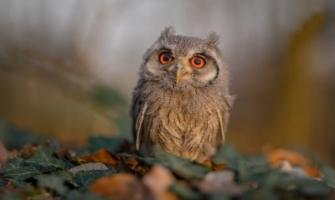
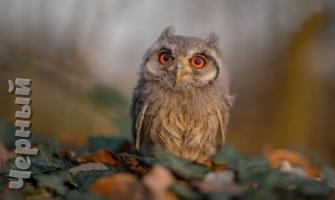
refact

Changed region(s): [[0.0, 0.39, 0.1194, 0.96]]

diff --git a/php/algorithms/transformingSteps/PredominantColor.php b/php/algorithms/transformingSteps/PredominantColor.php
@@ -81,10 +81,9 @@ class PredominantColor
     //14) Неопределенные цвета
     static $undefined=array(45,46,81,82,88,118,189,477,513,621,518,521,53,119,82,83);
 
-    public function Get_Img($url)
+    public static function Get_Img($url)
     {
-        MessageSystem::sendMessage(false, "цвет", $url);
-        var_dump($url);
+        
         $arr_color=array();
         // Файл для определения основного цвета
         $im = ImageCreateFromJPEG($url);
@@ -103,9 +102,9 @@ class PredominantColor
                 $avg_B = $rgb & 0xFF;
 
 
-                $HSV = $this->RGB_HSV($avg_R, $avg_G, $avg_B);
+                $HSV = PredominantColor::RGB_HSV($avg_R, $avg_G, $avg_B);
 
-                $number = $this->number_intable($HSV["hue"], $HSV["saturation"], $HSV["value"]);
+                $number = PredominantColor::number_intable($HSV["hue"], $HSV["saturation"], $HSV["value"]);
 
                 if (isset($arr_color[$number])) {
                     $arr_color[$number] = $arr_color[$number] + 1;
@@ -118,10 +117,10 @@ class PredominantColor
         //var_dump($arr_color);
         ImageDestroy($im);
 
-        $vr=$this->counting_color($arr_color);
+        $vr = PredominantColor::counting_color($arr_color);
+        
 
-
-        return (string)$this->calculation_dominant_color($vr);
+        return PredominantColor::calculation_dominant_color($vr);
 
     }
     // Перевести RGB в HSV
@@ -375,9 +374,10 @@ class PredominantColor
             }
         }
         
-        return MessageSystem::sendMessage(true, "цвет", $dom_color);
+         return MessageSystem::sendMessage(true, "цвет", $dom_color);
+        // return $dom_color;
     }
-
+    
 }
 
 //$b = new Predominant_Color();

diff --git a/php/controller/CoreController.php b/php/controller/CoreController.php
@@ -23,17 +23,30 @@ class CoreController
        
 
 
-        foreach ($result['data'] as &$value) {
+        // foreach ($result['data'] as &$value) {
 
-            $bmw ->usageGetImage($value, $saitUrl, $width, $higth)
-                 ->usageSaveFile()
-                 ->usageImageResize()
-                 ->usageReadSaveHashFile()
-                 ->usagePredominantColor()
-                 ->usageWatermark();
-                //  ->usageReadSaveHashFile();
+        //     $bmw ->usageGetImage($value, $saitUrl, $width, $higth)
+        //          ->usageSaveFile()
+        //          ->usageImageResize()
+        //          ->usageReadSaveHashFile()
+        //          ->usagePredominantColor()
+        //          ->usageWatermark();
+        //         //  ->usageReadSaveHashFile();
               
-        }
+        // }
+
+    $value = 'https://zastavok.net/ts/animals/165273601317.jpg';
+    $bmw ->usageGetImage($value, $saitUrl, $width, $higth)
+    ->usageSaveFile()
+    ->usageImageResize()
+    ->usageReadSaveHashFile()
+    ->usagePredominantColor()
+    ->usageWatermark();
+   //  ->usageReadSaveHashFile();
+    
     }
+    
+
+
 
 }

diff --git a/php/controller/СallСhainСontroller.php b/php/controller/СallСhainСontroller.php
@@ -48,7 +48,7 @@ class СallСhainСontroller
         //-------------------Идентификаторы для сокращения------------------
         $message = $this->saveMessage;
         $saveImageUrl = $this->saveImageUrl;
-
+        
         if($message['result']){
 
             ImageResize::resize($saveImageUrl);
@@ -69,7 +69,7 @@ class СallСhainСontroller
 
             $this->saveMessage = ReadSaveHashFile::seveFalesImagis($smollImg); 
             $this->saveNewNameMD5 = $this->saveMessage['data'];
-           
+            
         }
 
         return $this;
@@ -77,12 +77,13 @@ class СallСhainСontroller
    
 
     public function usagePredominantColor(){
-
+        
         $smollImg = URL_FOLDER_TMP.NAME_SMOLL_IMG;
         
-        $b = new PredominantColor();
+       
 
-        $this->saveMessage = $b-> Get_Img($smollImg);
+        $this->saveMessage = PredominantColor::Get_Img($smollImg);
+        
         $this->saveColor = $this->saveMessage['data'];
         
         return $this;

diff --git a/php/algorithms/transformingSteps/WaterMark.php b/php/algorithms/transformingSteps/WaterMark.php
@@ -22,9 +22,9 @@ class WaterMark
         static $img = URL_FOLDER_TMP.NAME_SMOLL_IMG; // фаил который берем
 
         static $font =TTF; // Ссылка на шрифт
-        static $font_size = 24; // Размер шрифта
+        static $font_size = 21; // Размер шрифта
         static $degree = 90; // Угол поворота текста в градусах
-        static $height = 170; // Отступ сверху в пикселях
+        static $height = 190; // Отступ сверху в пикселях
         static $width = 30; // Отступ слева в пикселях
 
         static $color_transfer = array("black" => "Черный",

diff --git a/php/algorithms/MessageSystem.php b/php/algorithms/MessageSystem.php
@@ -16,6 +16,7 @@ class MessageSystem
         );  
         
         MessageSystem::seveLogFiles($result["message"].'----'.$result["data"]);
+        var_dump($result);
         return $result;
     }
 
